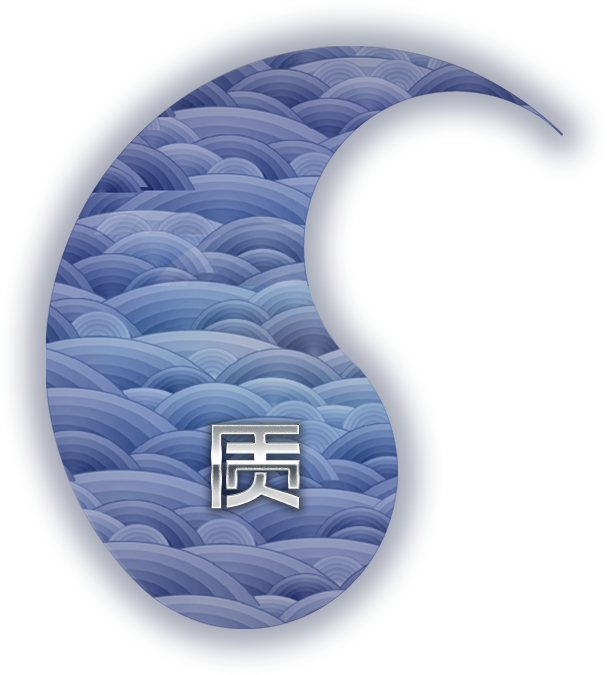
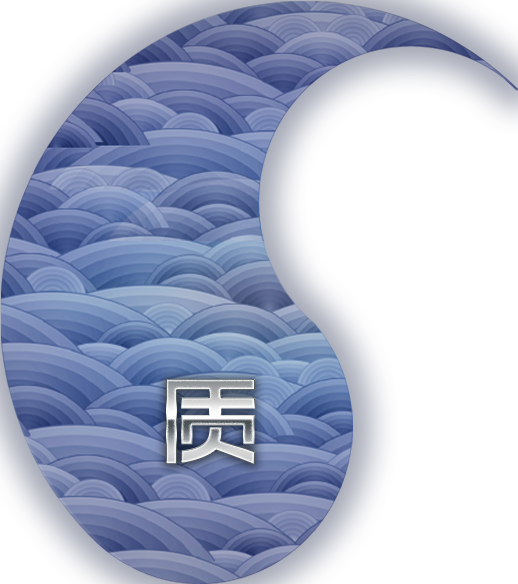
xxx

diff --git a/pages/index/index.vue b/pages/index/index.vue
@@ -36,8 +36,8 @@
 								<image class="spot" src="../../static/spot.png" mode="aspectFit"></image>
 								<view class="spot-val">点击开启新品助力</view>
 							</view>
-							<image class="taiji taiji-left" src="../../static/taiji-left.png" mode="aspectFit" :style="{'animation-play-state':tjPlay}"></image>
-							<image class="taiji taiji-right" src="../../static/taiji-right.png" mode="aspectFit" :style="{'animation-play-state':tjPlay}"></image>
+							<img class="taiji taiji-left" src="../../static/taiji-left.png" :style="{'animation-play-state':tjPlay}" />
+							<img class="taiji taiji-right" src="../../static/taiji-right.png" :style="{'animation-play-state':tjPlay}">
 						</view>
 						<view class="pro-img">
 							<image class="pImg" :src="'../../static/pro-'+proImg+'.png'" mode="aspectFit"></image>
@@ -372,13 +372,14 @@
 	}
 
 	.taiji-box {
-		width: 120%;
-		height: 120%;
+		width: 100%;
+		height: 100%;
 		position: absolute;
-		top: -10%;
-		left: -10%;
+		top: 0;
+		left: 0;
 		z-index: 10;
 		border-radius: 50%;
+		box-shadow: 0 0 100upx 30upx #224386;
 	}
 
 	.spot-box {
@@ -405,7 +406,7 @@
 	.spot {
 		width: 8%;
 		height: 8%;
-		margin: 0 10upx 0 40%;
+		margin: 0 10upx 0 45%;
 		animation-name: spot-shine;
 		animation-duration: 2s;
 		animation-timing-function: ease;
@@ -416,7 +417,7 @@
 	.taiji {
 		height: 100%;
 		position: absolute;
-		top: -3%;
+		top: -2%;
 		animation-name: rotate-left;
 		animation-duration: 2s;
 		animation-timing-function: linear;
@@ -425,12 +426,13 @@
 	}
 
 	.taiji-left {
-		left: -10%;
+		left: -1%;
 	}
 
 	.taiji-right {
-		right: -10%;
-		top: 3%;
+		top: auto;
+		right: -1%;
+		bottom: -2%;
 		animation-name: rotate-right;
 	}
 
@@ -446,7 +448,7 @@
 
 	@keyframes rotate-left {
 		0% {
-			left: -10%;
+			left: -1%;
 			opacity: 1;
 		}
 
@@ -463,7 +465,7 @@
 
 	@keyframes rotate-right {
 		0% {
-			right: -10%;
+			right: -1%;
 			opacity: 1;
 		}
 
